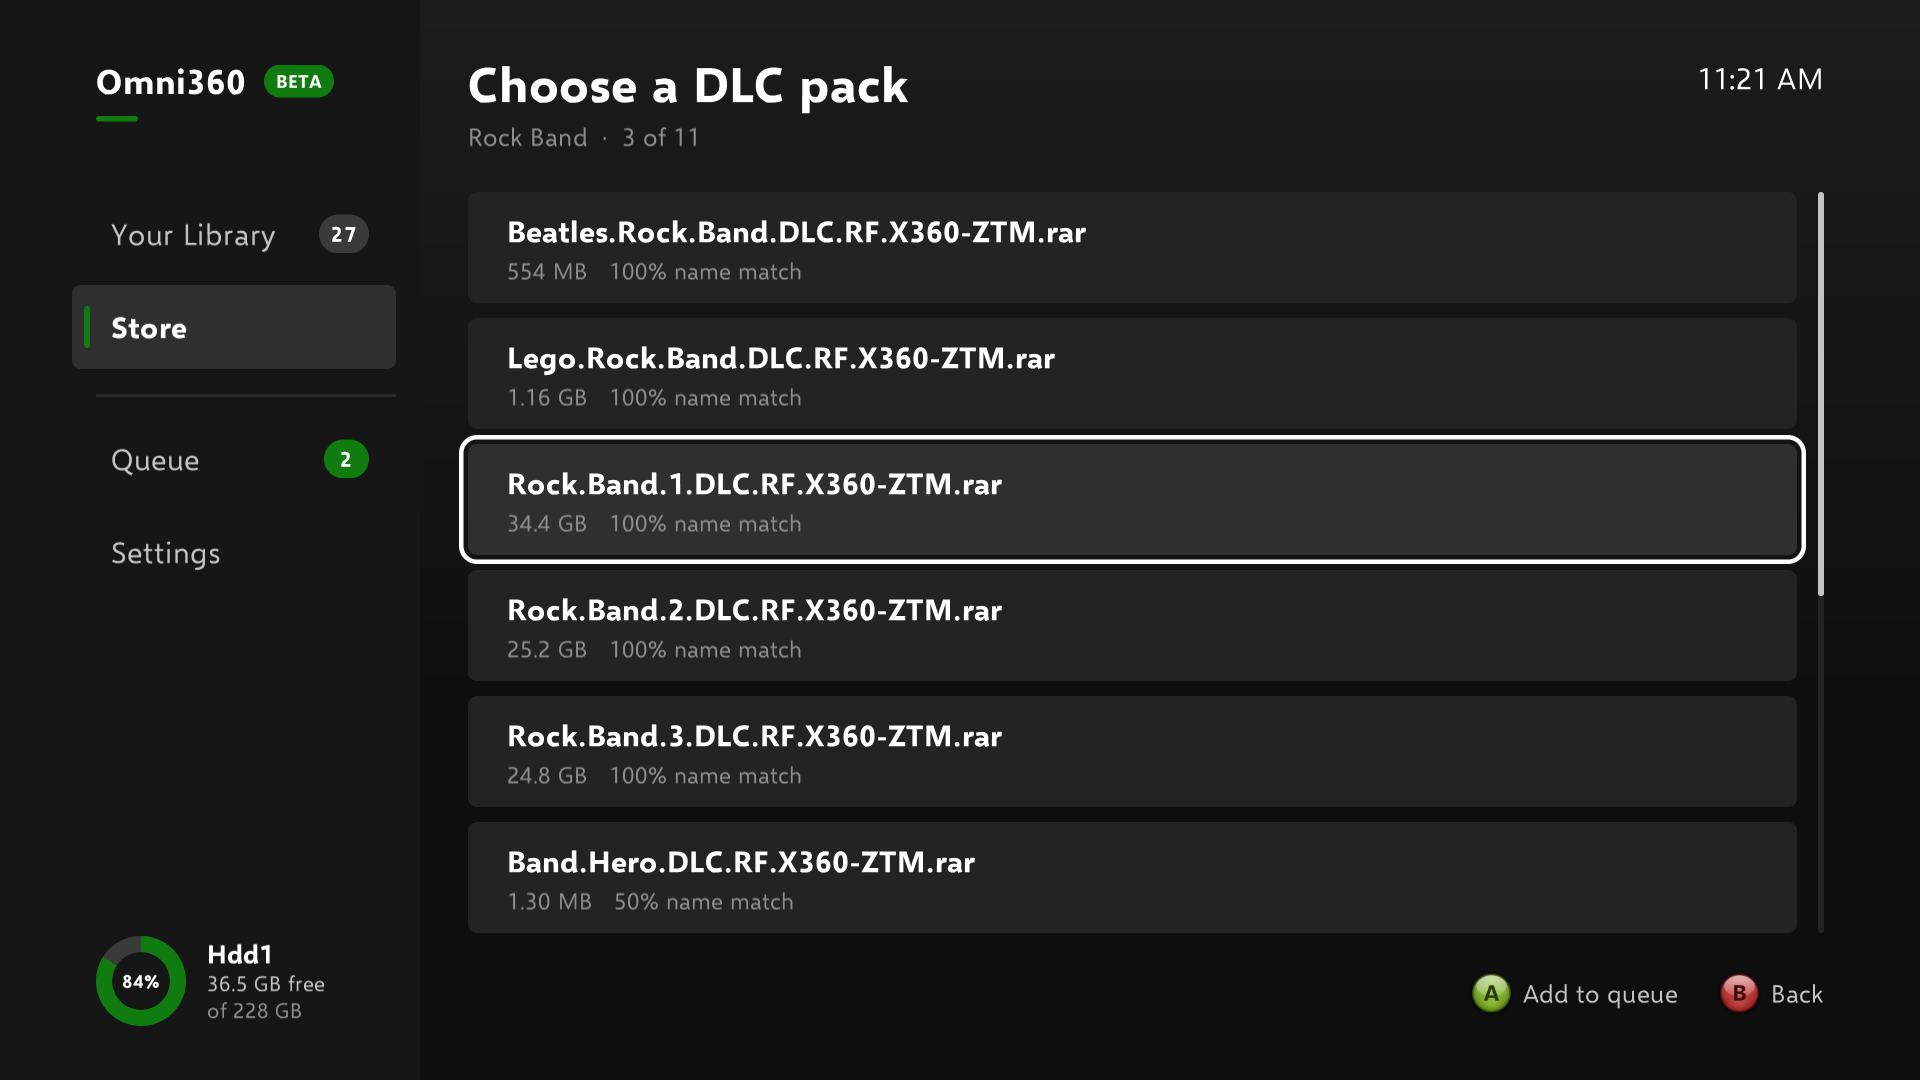
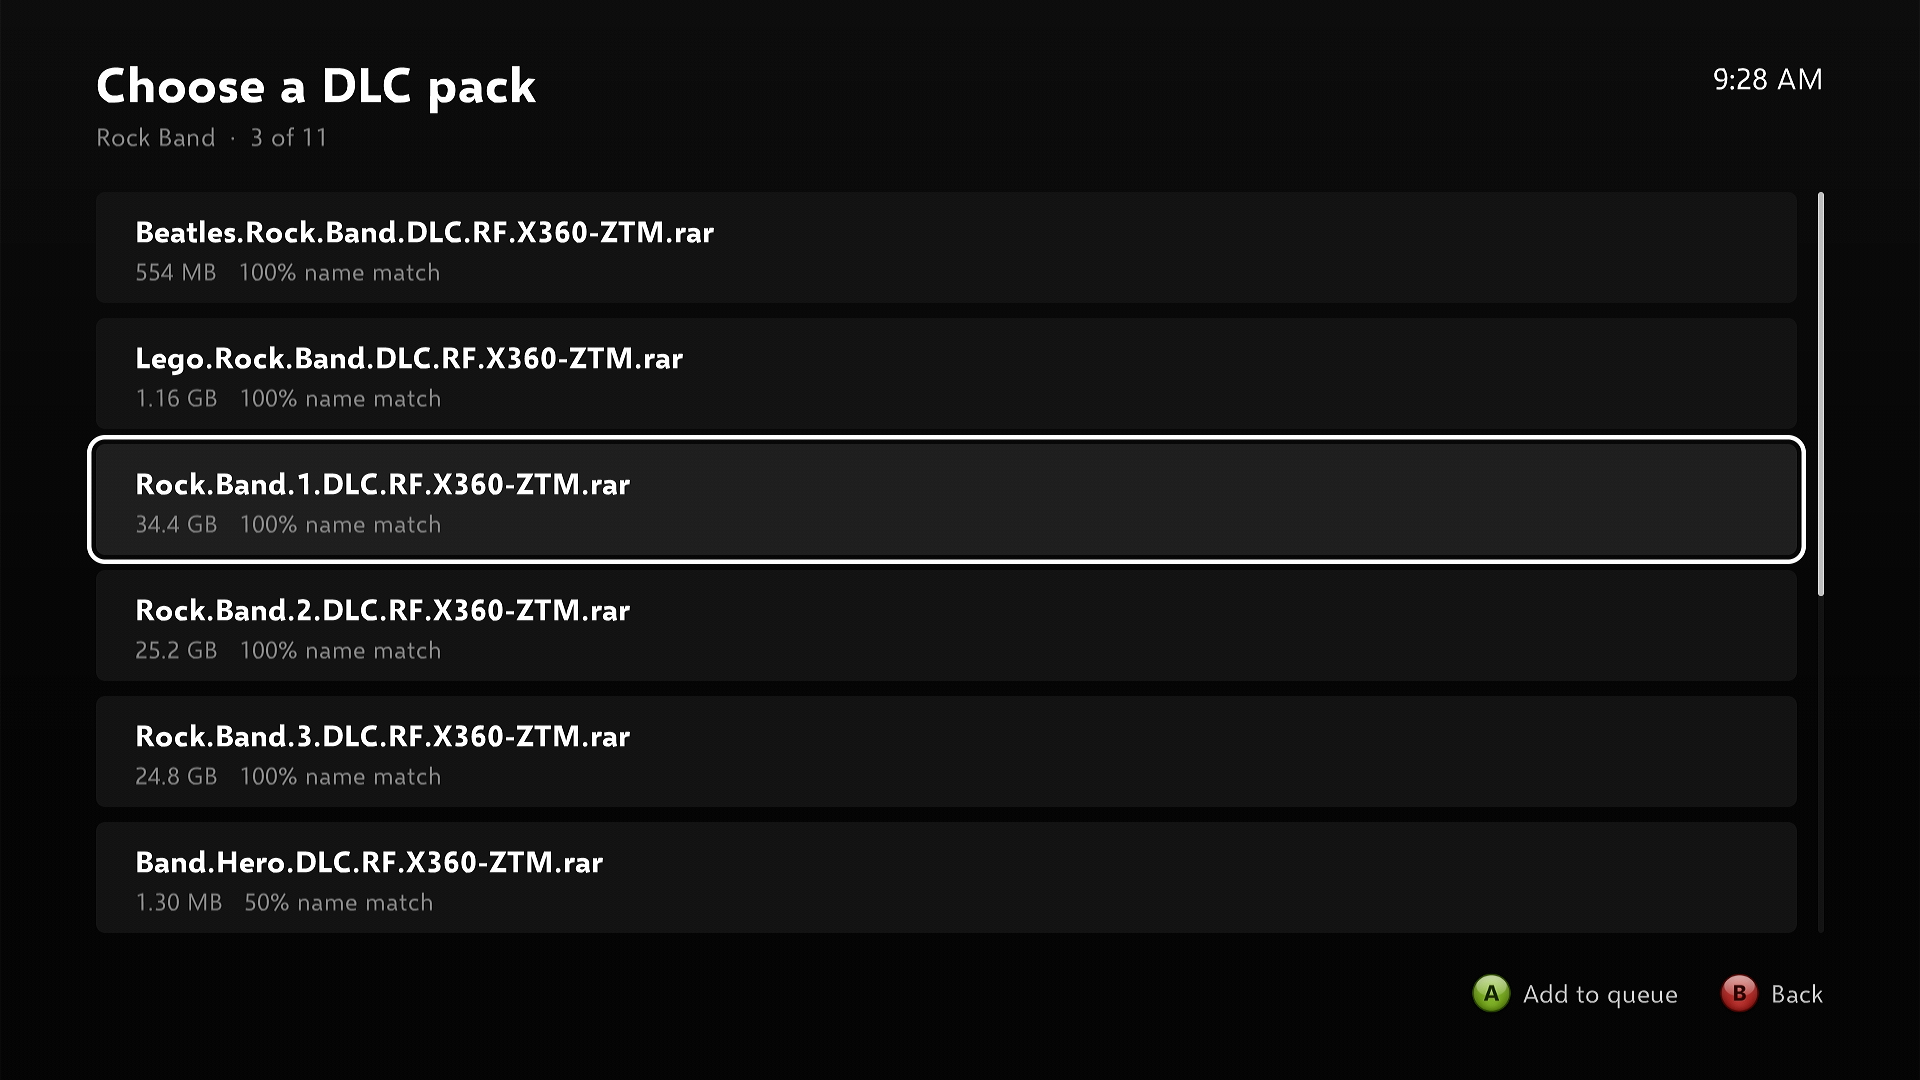
Shoot the README's screenshots again, on 0.13.0-beta
The shots were from early October and carried a line under them saying
so: they predated the Home screen and the sidebar becoming one group's
own navigation. These are from a console running 0.13.0-beta.

Home leads now, because it is what the app opens on. Games, the Store,
a game's page, the DLC picker and Settings are all retaken - Settings
with the folder rows saying what each folder holds, which is new, and
the Store with the Homebrew, XBLA, XBLIG and Original Xbox buttons.

The Queue, Browse and the arcade page are still the old shots, and the
line under the table now says only that much rather than explaining a
layout nobody can see any more.

Games' caption loses "with its DLC and title updates marked" - nothing
in the grid marks either, and hasn't for some time.

diff --git a/README.md b/README.md
@@ -71,30 +71,35 @@ Everything downloads and installs in the background while you keep browsing, wit
 ## Screenshots
 
 <p align="center">
-  <img src="docs/screenshots/library.png" alt="Games: installed games as a grid of covers" width="100%"><br>
-  <sub><b>Games</b>: every installed game, Xbox 360 and Original Xbox, with its DLC and title updates marked.</sub>
+  <img src="docs/screenshots/home.png" alt="Home: the games played most recently as a row of covers, over Halo 3's wallpaper" width="100%"><br>
+  <sub><b>Home</b>: what you played last, the disc in the drive first, under its own wallpaper.</sub>
 </p>
 
 <p align="center">
-  <img src="docs/screenshots/store.png" alt="The Store: featured games and the A to Z lists" width="100%"><br>
-  <sub><b>Store</b>: this week's featured games up top, then every game A to Z.</sub>
+  <img src="docs/screenshots/library.png" alt="Games: installed games as a grid of covers" width="100%"><br>
+  <sub><b>Games</b>: every installed game, Xbox 360 and Original Xbox, with the disc in the drive marked.</sub>
+</p>
+
+<p align="center">
+  <img src="docs/screenshots/store.png" alt="The Store: this week's featured games and the Homebrew, XBLA, XBLIG and Original Xbox buttons" width="100%"><br>
+  <sub><b>Store</b>: this week's featured games, then Homebrew, XBLA, XBLIG and Original Xbox.</sub>
 </p>
 
 <table>
   <tr>
-    <td width="50%"><img src="docs/screenshots/360-game-details.png" alt="Grand Theft Auto V's page in the Store"><br><sub><b>A game's page</b>: description, ratings, screenshots and every regional version.</sub></td>
-    <td width="50%"><img src="docs/screenshots/xbla-game-details.png" alt="Alan Wake's American Nightmare installing"><br><sub><b>Xbox Live Arcade</b>: arcade games get the same pages, and show their progress as they install.</sub></td>
-  </tr>
-  <tr>
-    <td width="50%"><img src="docs/screenshots/store-popular.png" alt="The Store's A to Z, Popular and Top rated rows"><br><sub><b>Browse</b>: A to Z, or rows of Popular, Top rated and every genre.</sub></td>
+    <td width="50%"><img src="docs/screenshots/360-game-details.png" alt="Halo 3's page: description, ratings, screenshots and more like this"><br><sub><b>A game's page</b>: description, ratings, screenshots, its DLC and its title updates.</sub></td>
     <td width="50%"><img src="docs/screenshots/dlc.png" alt="Choosing a Rock Band DLC pack"><br><sub><b>DLC</b>: find the packs for any game and pick the ones you want.</sub></td>
   </tr>
   <tr>
+    <td width="50%"><img src="docs/screenshots/settings.png" alt="Settings: the folders games, apps, homebrew and emulators live in"><br><sub><b>Settings</b>: the folders your games, apps, homebrew and emulators live in, your archive.org keys and updates.</sub></td>
     <td width="50%"><img src="docs/screenshots/queue.png" alt="The Queue: Grand Theft Auto V waiting while an arcade game downloads"><br><sub><b>Queue</b>: everything downloads and installs in the background.</sub></td>
-    <td width="50%"><img src="docs/screenshots/settings.png" alt="Settings: library folders, archive.org keys, disc read speed, updates"><br><sub><b>Settings</b>: library folders, your archive.org keys and updates, all on one screen.</sub></td>
   </tr>
   <tr>
-    <td colspan="2"><sub>These shots predate the Home screen and the move to a single sidebar on Games + Apps; the pages themselves are unchanged.</sub></td>
+    <td width="50%"><img src="docs/screenshots/store-popular.png" alt="The Store's A to Z, Popular and Top rated rows"><br><sub><b>Browse</b>: A to Z, or rows of Popular, Top rated and every genre.</sub></td>
+    <td width="50%"><img src="docs/screenshots/xbla-game-details.png" alt="Alan Wake's American Nightmare installing"><br><sub><b>Xbox Live Arcade</b>: arcade games get the same pages, and show their progress as they install.</sub></td>
+  </tr>
+  <tr>
+    <td colspan="2"><sub>The last three shots are older than this release.</sub></td>
   </tr>
 </table>
 
